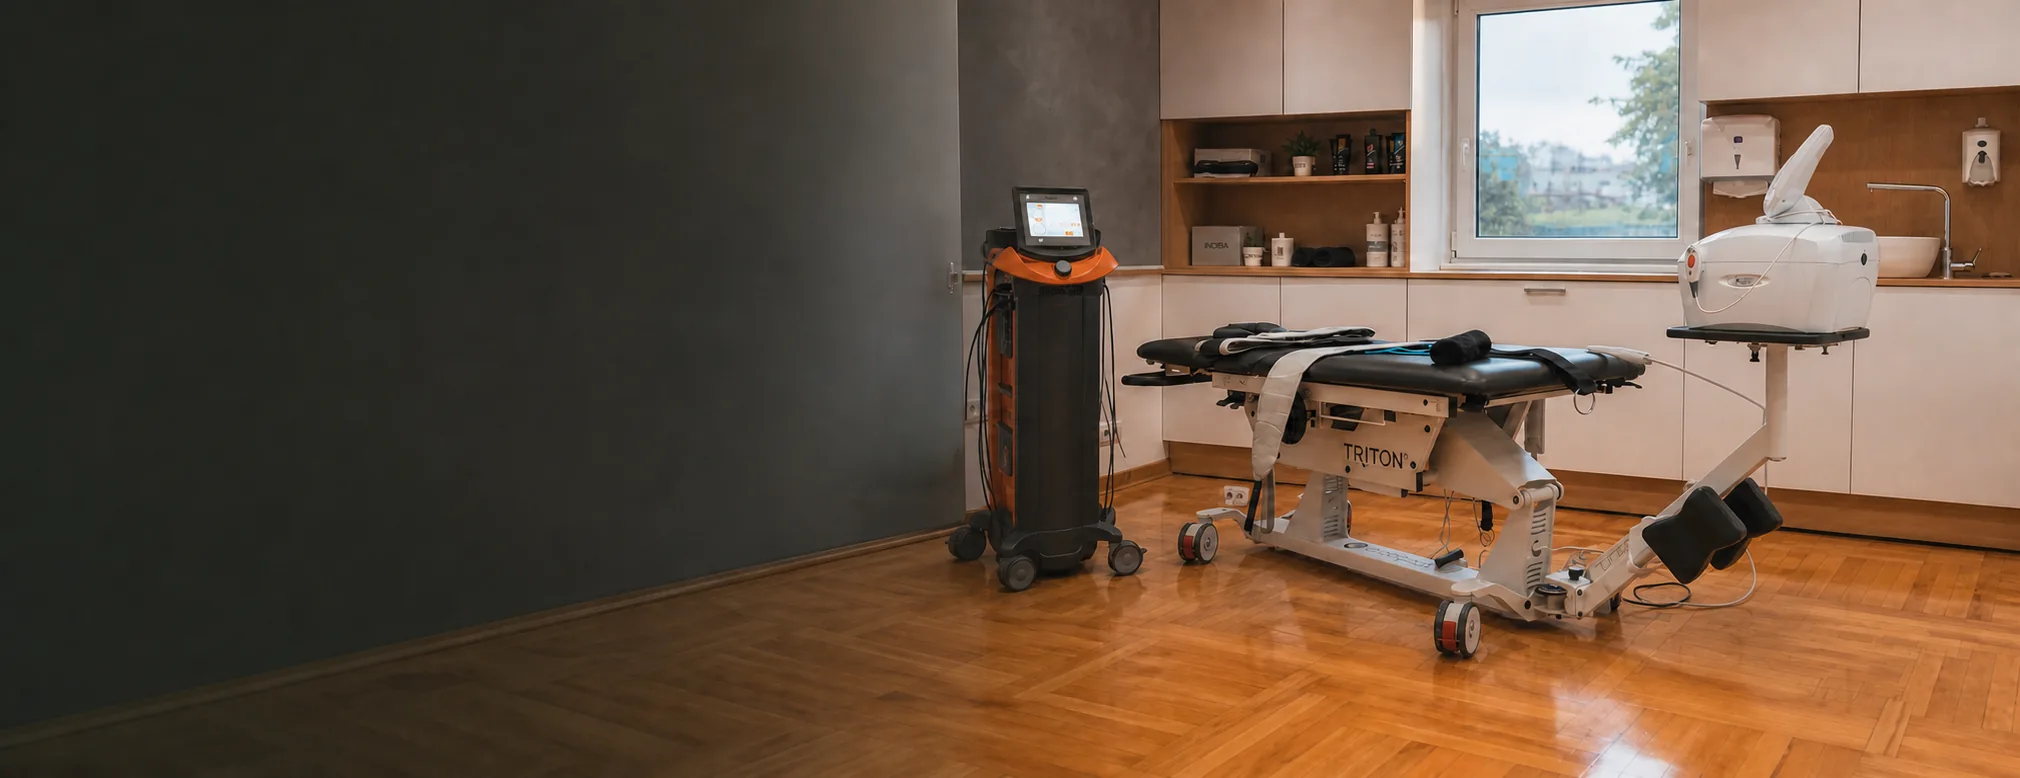
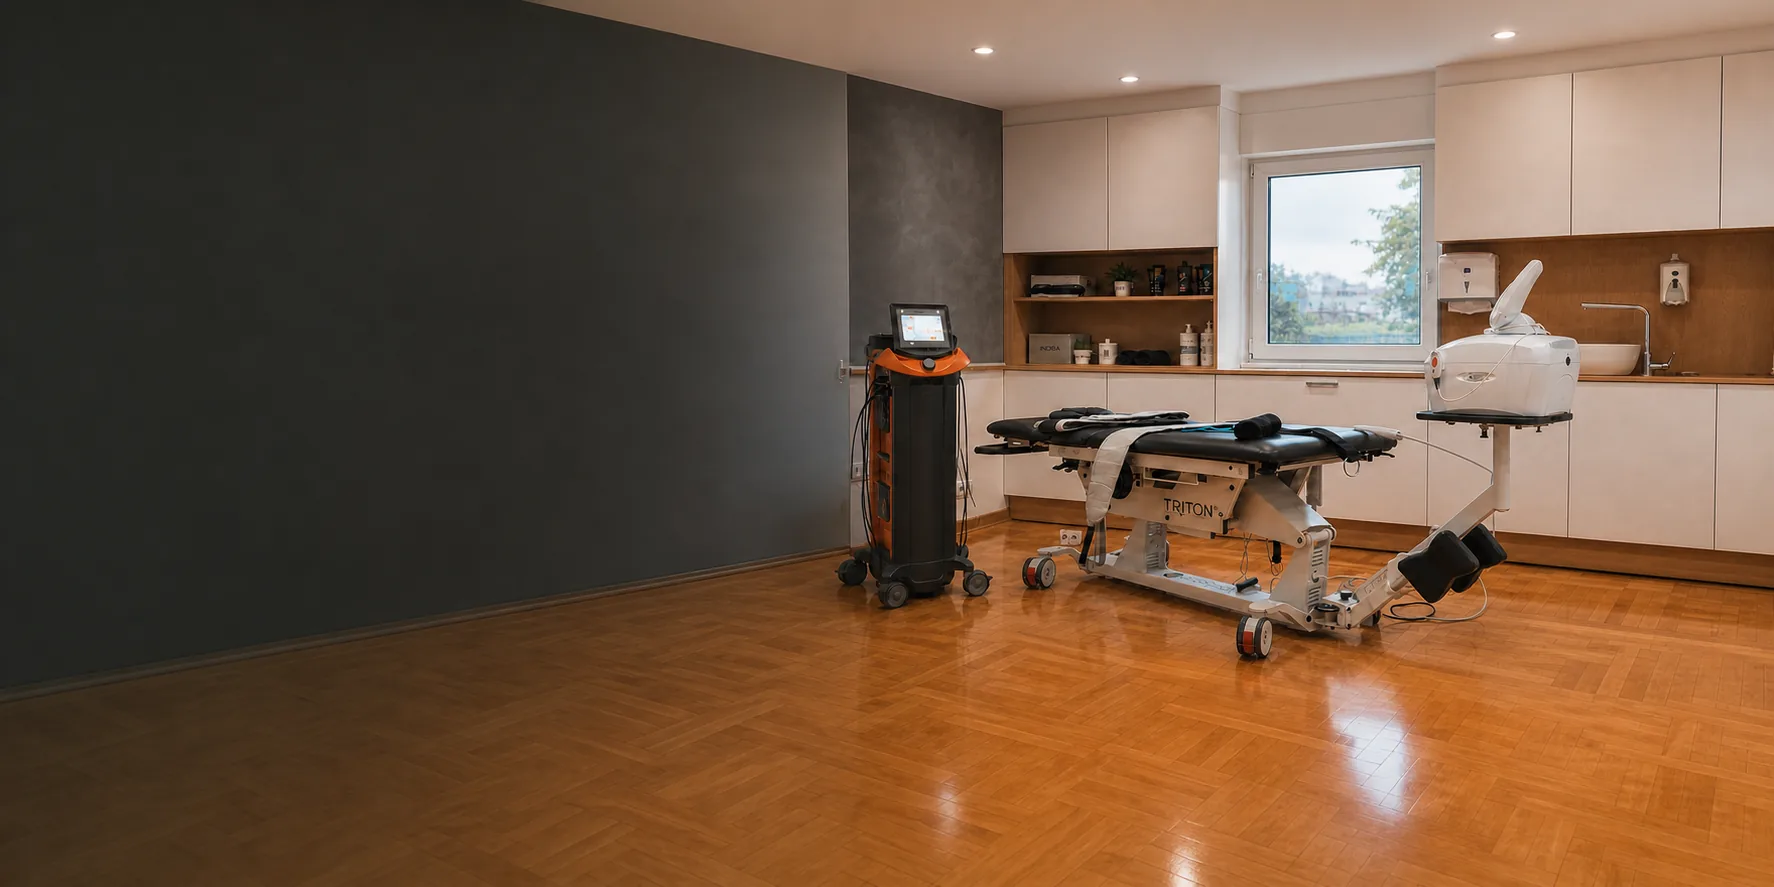
Nova slika za paralaksu

diff --git a/v13/usluga.css b/v13/usluga.css
@@ -987,19 +987,18 @@
    ══════════════════════════════════════════════════════════════ */
 
 /* `v12/styles.css` je zamrznut i tamo ova sekcija i dalje povlači
-   `manifesto.webp`. Menja se samo slika i kadriranje, gradijent ostaje. */
-/* Fotografija je panoramska (2020×778). Uz `background-attachment: fixed`
-   kadar se računa prema visini prozora, pa se sto i NeuFit presecaju na pola —
-   zato ovde `scroll`: slika se uklapa u sekciju i vidi se cela prostorija.
-   Parallax gubimo namerno; `.expectation` na stranici usluge radi isto. */
+   `manifesto.webp`. Ovde se menja samo slika — paralaksa (`fixed`),
+   kadar (`56% center`) i gradijent ostaju kako ih v12 postavlja.
+
+   `?v=2` je zbog keša: prva verzija fotografije je već bila objavljena
+   pod istim imenom. Kad se slika opet menja, podigni broj. */
 #oprema .education-media {
-  background-image: url("../v8/assets/images/oprema.webp");
-  background-attachment: scroll;
-  background-position: center center;
+  background-image: url("../v8/assets/images/oprema.webp?v=2");
 }
 
-/* Na telefonu u kadar staje oko četvrtine širine — pomeramo je na aparate,
-   da to ne bude prazan zid. */
+/* Na telefonu v12 gasi paralaksu i u kadar staje oko trećine širine.
+   v12 tu cilja `56% 37%`, što na ovoj fotografiji pokaže plakare —
+   pomeramo na aparate. */
 @media (max-width: 900px) {
   #oprema .education-media {
     background-position: 68% center;

diff --git a/v13/usluge/index.html b/v13/usluge/index.html
@@ -7,7 +7,7 @@
     <meta name="robots" content="noindex, nofollow" />
     <meta name="description" content="Šest usluga Lokomoto centra — dijagnostika, fizikalna terapija, kineziterapija, manualna terapija, postoperativna rehabilitacija i medicinski trening." />
     <link rel="stylesheet" href="../../v12/styles.css?v=13.0" />
-    <link rel="stylesheet" href="../usluga.css?v=1.4" />
+    <link rel="stylesheet" href="../usluga.css?v=1.5" />
     <link rel="icon" href="../../v11/favicon.svg" type="image/svg+xml" />
     <title>Usluge — Lokomoto centar, Beograd</title>
   </head>

diff --git a/v13/usluge/fizikalna-terapija/index.html b/v13/usluge/fizikalna-terapija/index.html
@@ -10,7 +10,7 @@
       content="Fizikalna terapija u Lokomoto centru — INDIBA, dekompresija, NeuFit, elektroterapija, magnet i krioterapija. Ciljano smirivanje bola i priprema tkiva za pokret."
     />
     <link rel="stylesheet" href="../../../v12/styles.css?v=13.0" />
-    <link rel="stylesheet" href="../../usluga.css?v=1.4" />
+    <link rel="stylesheet" href="../../usluga.css?v=1.5" />
     <link rel="icon" href="../../../v11/favicon.svg" type="image/svg+xml" />
     <title>Fizikalna terapija — Lokomoto centar, Beograd</title>
   </head>

diff --git a/v13/usluge/postoperativna-rehabilitacija/index.html b/v13/usluge/postoperativna-rehabilitacija/index.html
@@ -7,7 +7,7 @@
     <meta name="robots" content="noindex, nofollow" />
     <meta name="description" content="Kontrolisan povratak pokretu — u fazama i tempom koji telo podnosi." />
     <link rel="stylesheet" href="../../../v12/styles.css?v=13.0" />
-    <link rel="stylesheet" href="../../usluga.css?v=1.4" />
+    <link rel="stylesheet" href="../../usluga.css?v=1.5" />
     <link rel="icon" href="../../../v11/favicon.svg" type="image/svg+xml" />
     <title>Postoperativna rehabilitacija — Lokomoto centar, Beograd</title>
   </head>

diff --git a/v13/usluge/manualna-terapija/index.html b/v13/usluge/manualna-terapija/index.html
@@ -7,7 +7,7 @@
     <meta name="robots" content="noindex, nofollow" />
     <meta name="description" content="Ciljane tehnike na zglobu i mekom tkivu — u skladu sa nalazom." />
     <link rel="stylesheet" href="../../../v12/styles.css?v=13.0" />
-    <link rel="stylesheet" href="../../usluga.css?v=1.4" />
+    <link rel="stylesheet" href="../../usluga.css?v=1.5" />
     <link rel="icon" href="../../../v11/favicon.svg" type="image/svg+xml" />
     <title>Manualna terapija — Lokomoto centar, Beograd</title>
   </head>

diff --git a/v13/usluge/kineziterapija/index.html b/v13/usluge/kineziterapija/index.html
@@ -7,7 +7,7 @@
     <meta name="robots" content="noindex, nofollow" />
     <meta name="description" content="Individualno vođene vežbe koje vraćaju obim pokreta i kontrolu." />
     <link rel="stylesheet" href="../../../v12/styles.css?v=13.0" />
-    <link rel="stylesheet" href="../../usluga.css?v=1.4" />
+    <link rel="stylesheet" href="../../usluga.css?v=1.5" />
     <link rel="icon" href="../../../v11/favicon.svg" type="image/svg+xml" />
     <title>Kineziterapija — Lokomoto centar, Beograd</title>
   </head>

diff --git a/v13/usluge/dijagnostika/index.html b/v13/usluge/dijagnostika/index.html
@@ -7,7 +7,7 @@
     <meta name="robots" content="noindex, nofollow" />
     <meta name="description" content="Pregled, testiranje i jasan nalaz — sa planom, ne sa nagađanjem." />
     <link rel="stylesheet" href="../../../v12/styles.css?v=13.0" />
-    <link rel="stylesheet" href="../../usluga.css?v=1.4" />
+    <link rel="stylesheet" href="../../usluga.css?v=1.5" />
     <link rel="icon" href="../../../v11/favicon.svg" type="image/svg+xml" />
     <title>Dijagnostika — Lokomoto centar, Beograd</title>
   </head>

diff --git a/v13/usluge/medicinski-trening/index.html b/v13/usluge/medicinski-trening/index.html
@@ -7,7 +7,7 @@
     <meta name="robots" content="noindex, nofollow" />
     <meta name="description" content="Stručno vođen trening koji gradi kapacitet, ne samo formu." />
     <link rel="stylesheet" href="../../../v12/styles.css?v=13.0" />
-    <link rel="stylesheet" href="../../usluga.css?v=1.4" />
+    <link rel="stylesheet" href="../../usluga.css?v=1.5" />
     <link rel="icon" href="../../../v11/favicon.svg" type="image/svg+xml" />
     <title>Medicinski trening — Lokomoto centar, Beograd</title>
   </head>

diff --git a/v13/index.html b/v13/index.html
@@ -11,7 +11,7 @@
     />
     <link rel="preload" href="../v8/assets/images/hero-poster-v4.jpg" as="image" />
     <link rel="stylesheet" href="../v12/styles.css?v=13.0" />
-    <link rel="stylesheet" href="usluga.css?v=1.4" />
+    <link rel="stylesheet" href="usluga.css?v=1.5" />
     <link rel="icon" href="../v11/favicon.svg" type="image/svg+xml" />
     <title>Lokomoto centar — fizikalna medicina i rehabilitacija, Beograd</title>
   </head>

diff --git a/v13/README.md b/v13/README.md
@@ -27,7 +27,7 @@ Na GitHub Pages posle pusha sve radi bez servera.
 | `v13/usluge/fizikalna-terapija/index.html` | **jedina popunjena stranica** |
 | `v13/usluge/<ostalih 5>/index.html` | stranice sa oznakom „u pripremi" |
 
-Oznaka verzije: `usluga.css?v=1.4`, `app.js?v=1.0`, `stranica.js?v=1.0`.
+Oznaka verzije: `usluga.css?v=1.5`, `app.js?v=1.0`, `stranica.js?v=1.0`.
 **Kad menjaš CSS ili skriptu, podigni broj** u svakom HTML-u koji je koristi.
 
 ## Šta je promenjeno na naslovnoj
@@ -53,13 +53,21 @@ jedini tamni predah između Tima i Pitanja, i poslednji argument pre kontakta.
   umesto spoljnog na `lokomoto-edukacija`, koji je uklonjen).
 - Potpis na fotografiji ostaje „Metod, ne recept."; oznaka iznad njega
   „LOKOMOTO SYSTEM" → **„LOKOMOTO CENTAR"** („System" je bio brend edukacija).
-- **Fotografija**: `v8/assets/images/oprema.webp` (2020×778, 76 kB) — terapijska sala
-  sa Triton DTS stolom i INDIBA aparatom, prava fotografija iz centra. Zamenila je
-  `manifesto.webp`, koji je sekcija nasleđivala iz v12. Zamena je u `usluga.css`,
-  `v12/styles.css` nije diran. Uz nju je promenjen i `aria-label` figure.
-- **`background-attachment` je `scroll`, ne `fixed`.** Slika je panoramska, pa se uz
-  `fixed` kadar računa prema visini prozora i sto se preseca na pola. Parallax je
-  namerno žrtvovan; na telefonu je kadar pomeren na `68% center`, na aparate.
+- **Fotografija**: `v8/assets/images/oprema.webp` (1774×887, 80 kB) — terapijska sala
+  sa Triton DTS stolom, INDIBA aparatom i NeuFit-om, prava fotografija iz centra.
+  Zamenila je `manifesto.webp`, koji je sekcija nasleđivala iz v12. Zamena je u
+  `usluga.css`, `v12/styles.css` nije diran. Promenjen je i `aria-label` figure.
+- **Paralaksa (`background-attachment: fixed`) je ostala**, kako je v12 postavlja.
+  Prva verzija fotografije bila je 2,6:1 i uz `fixed` se secao NeuFit — na
+  laptopu se videlo 62 % slike. Druga verzija je proširena po vertikali na
+  **2:1**, i na uobičajenim prozorima se vidi 80–89 %, sa sva tri aparata u kadru.
+  Ako se fotografija ikad opet menja, taj odnos je uslov — približno 16:9 ili širi
+  od toga najviše do 2:1.
+- **Ime fajla nosi `?v=2` u CSS-u.** Prva verzija slike je već bila objavljena pod
+  istim imenom, a slike se ne verzionišu kroz `index.html`. Kad se slika menja,
+  podigni taj broj, inače posetiocima ostaje keširana stara.
+- Na telefonu v12 gasi paralaksu; kadar je pomeren sa `56% 37%` na `68% center`,
+  jer prvi na ovoj fotografiji pokaže plakare umesto aparata.
 - Sidro `#edukacije` → `#oprema` u meniju (desktop i mobilni) i futeru, na svih 8 stranica.
 - Beleška u sekciji Tim više ne pominje edukacije:
   „Isti tim radi i pregled i terapiju — nalaz ne prelazi iz ruke u ruku."
